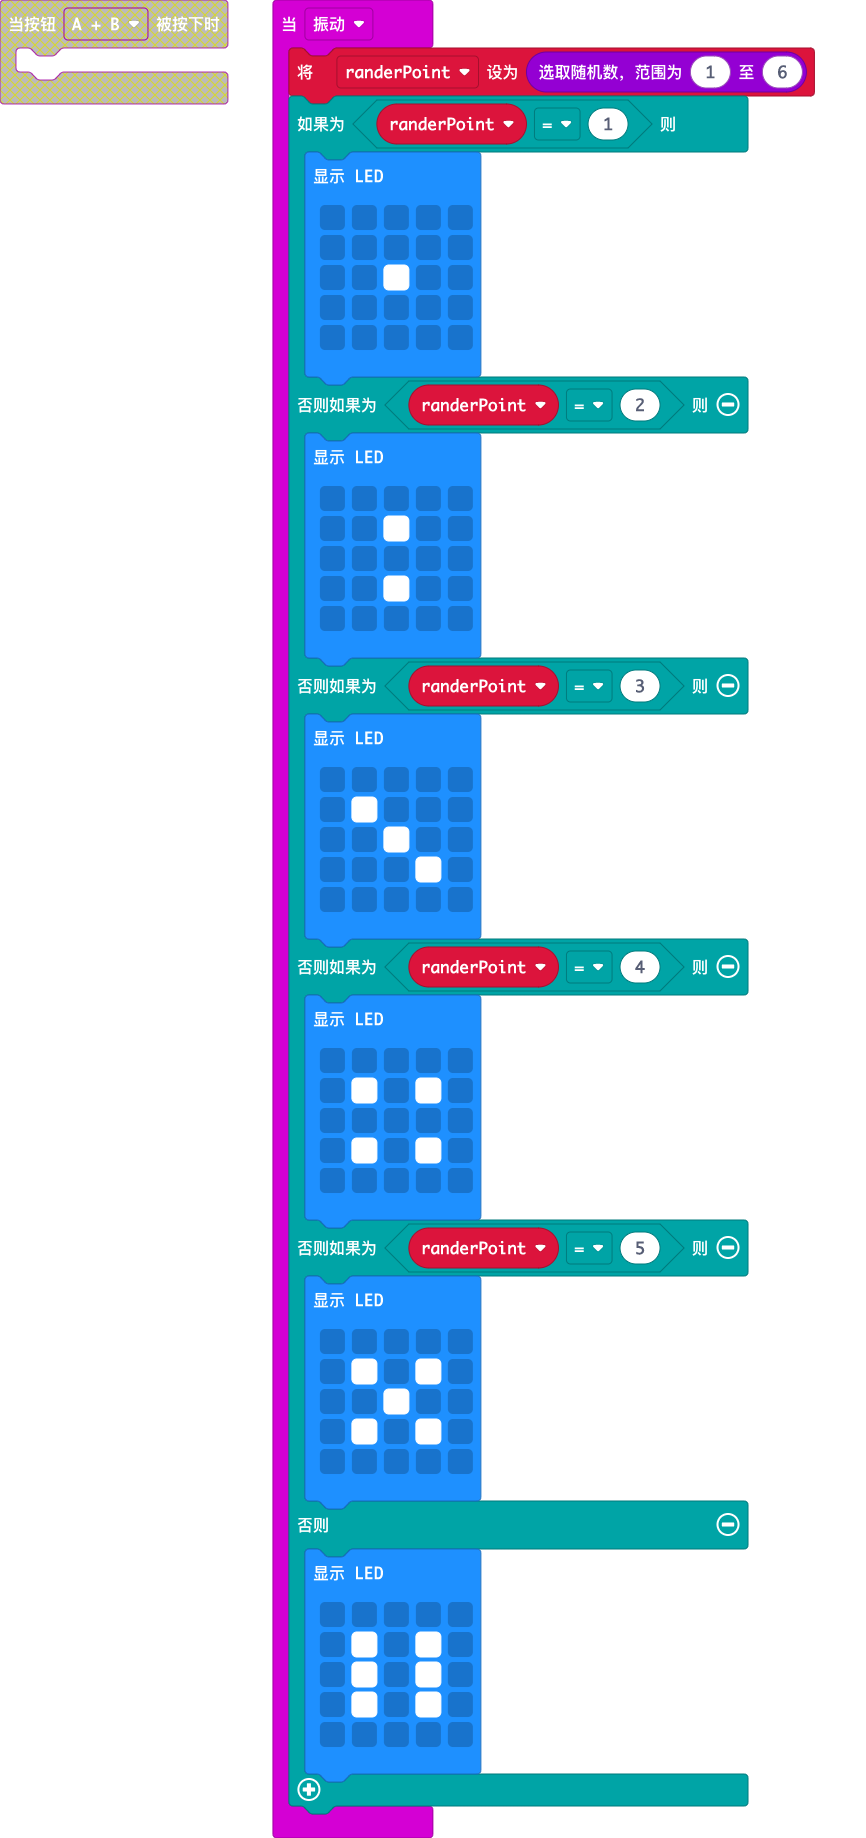
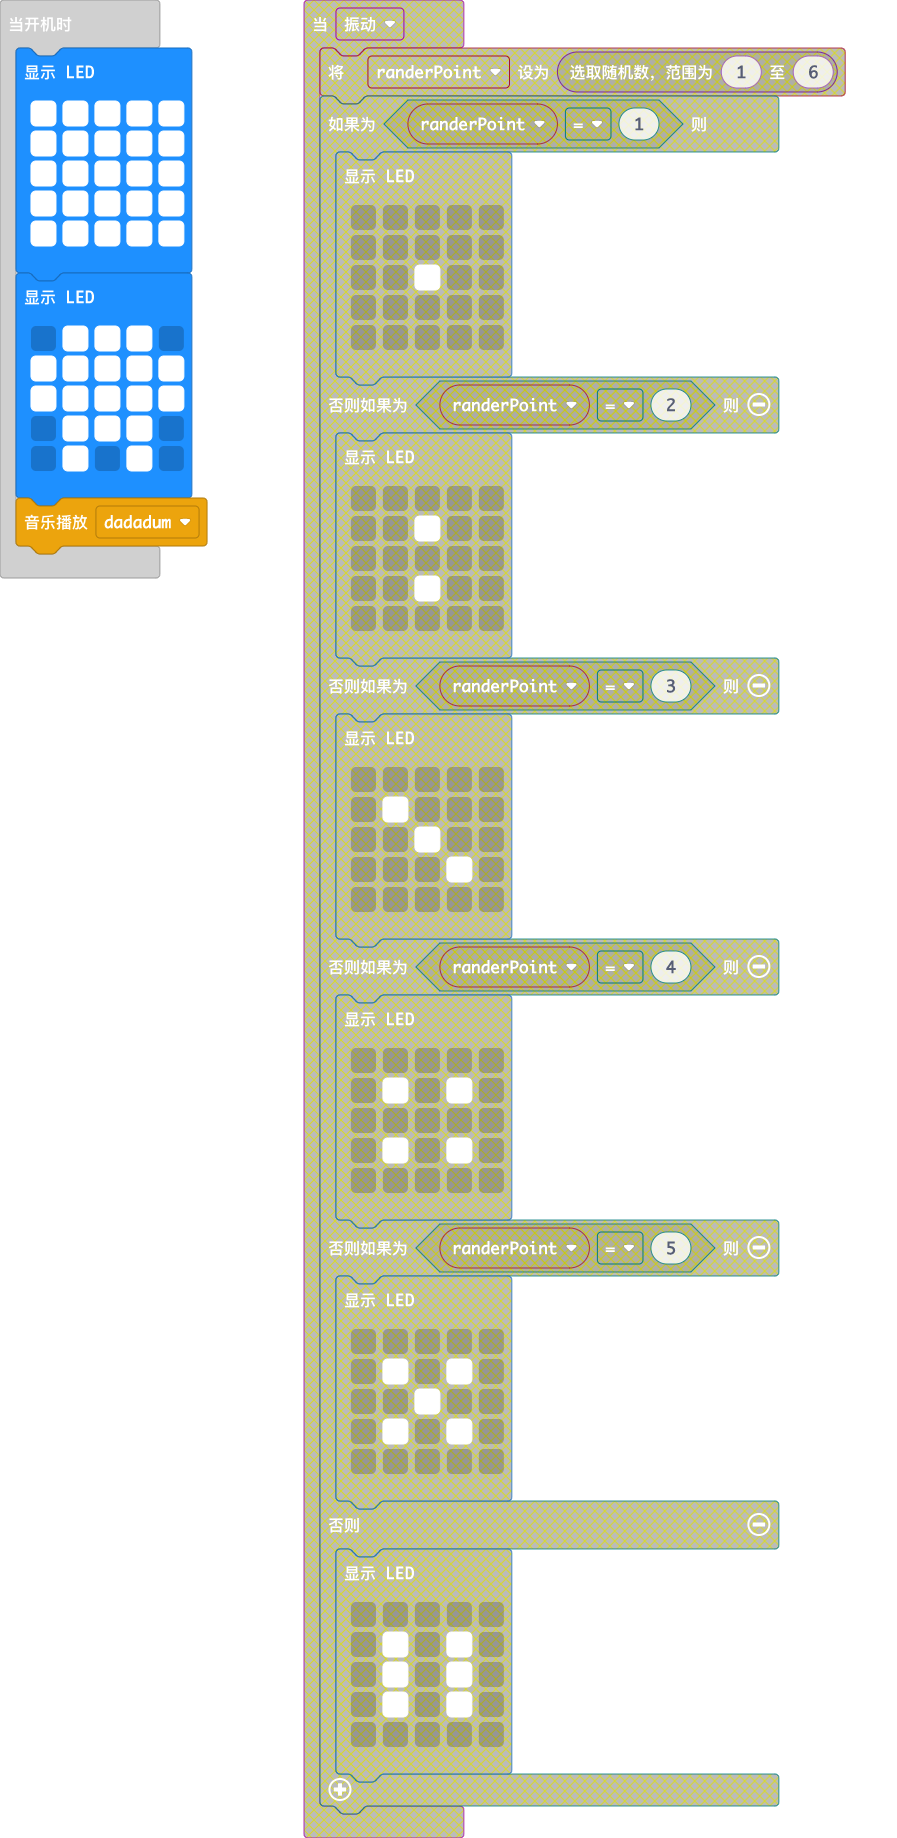
添加扩展板功能

diff --git a/main.ts b/main.ts
@@ -1,56 +1,10 @@
-input.onGesture(Gesture.Shake, function () {
-    randerPoint = randint(1, 6)
-    if (randerPoint == 1) {
-        basic.showLeds(`
-            . . . . .
-            . . . . .
-            . . # . .
-            . . . . .
-            . . . . .
-            `)
-    } else if (randerPoint == 2) {
-        basic.showLeds(`
-            . . . . .
-            . . # . .
-            . . . . .
-            . . # . .
-            . . . . .
-            `)
-    } else if (randerPoint == 3) {
-        basic.showLeds(`
-            . . . . .
-            . # . . .
-            . . # . .
-            . . . # .
-            . . . . .
-            `)
-    } else if (randerPoint == 4) {
-        basic.showLeds(`
-            . . . . .
-            . # . # .
-            . . . . .
-            . # . # .
-            . . . . .
-            `)
-    } else if (randerPoint == 5) {
-        basic.showLeds(`
-            . . . . .
-            . # . # .
-            . . # . .
-            . # . # .
-            . . . . .
-            `)
-    } else {
-        basic.showLeds(`
-            . . . . .
-            . # . # .
-            . # . # .
-            . # . # .
-            . . . . .
-            `)
-    }
-})
-let randerPoint = 0
+basic.showLeds(`
+    # # # # #
+    # # # # #
+    # # # # #
+    # # # # #
+    # # # # #
+    `)
 basic.showLeds(`
     . # # # .
     # # # # #
@@ -58,6 +12,7 @@ basic.showLeds(`
     . # # # .
     . # . # .
     `)
+SuperBit.Music(SuperBit.enMusic.dadadum)
 basic.forever(function () {
 	
 })
